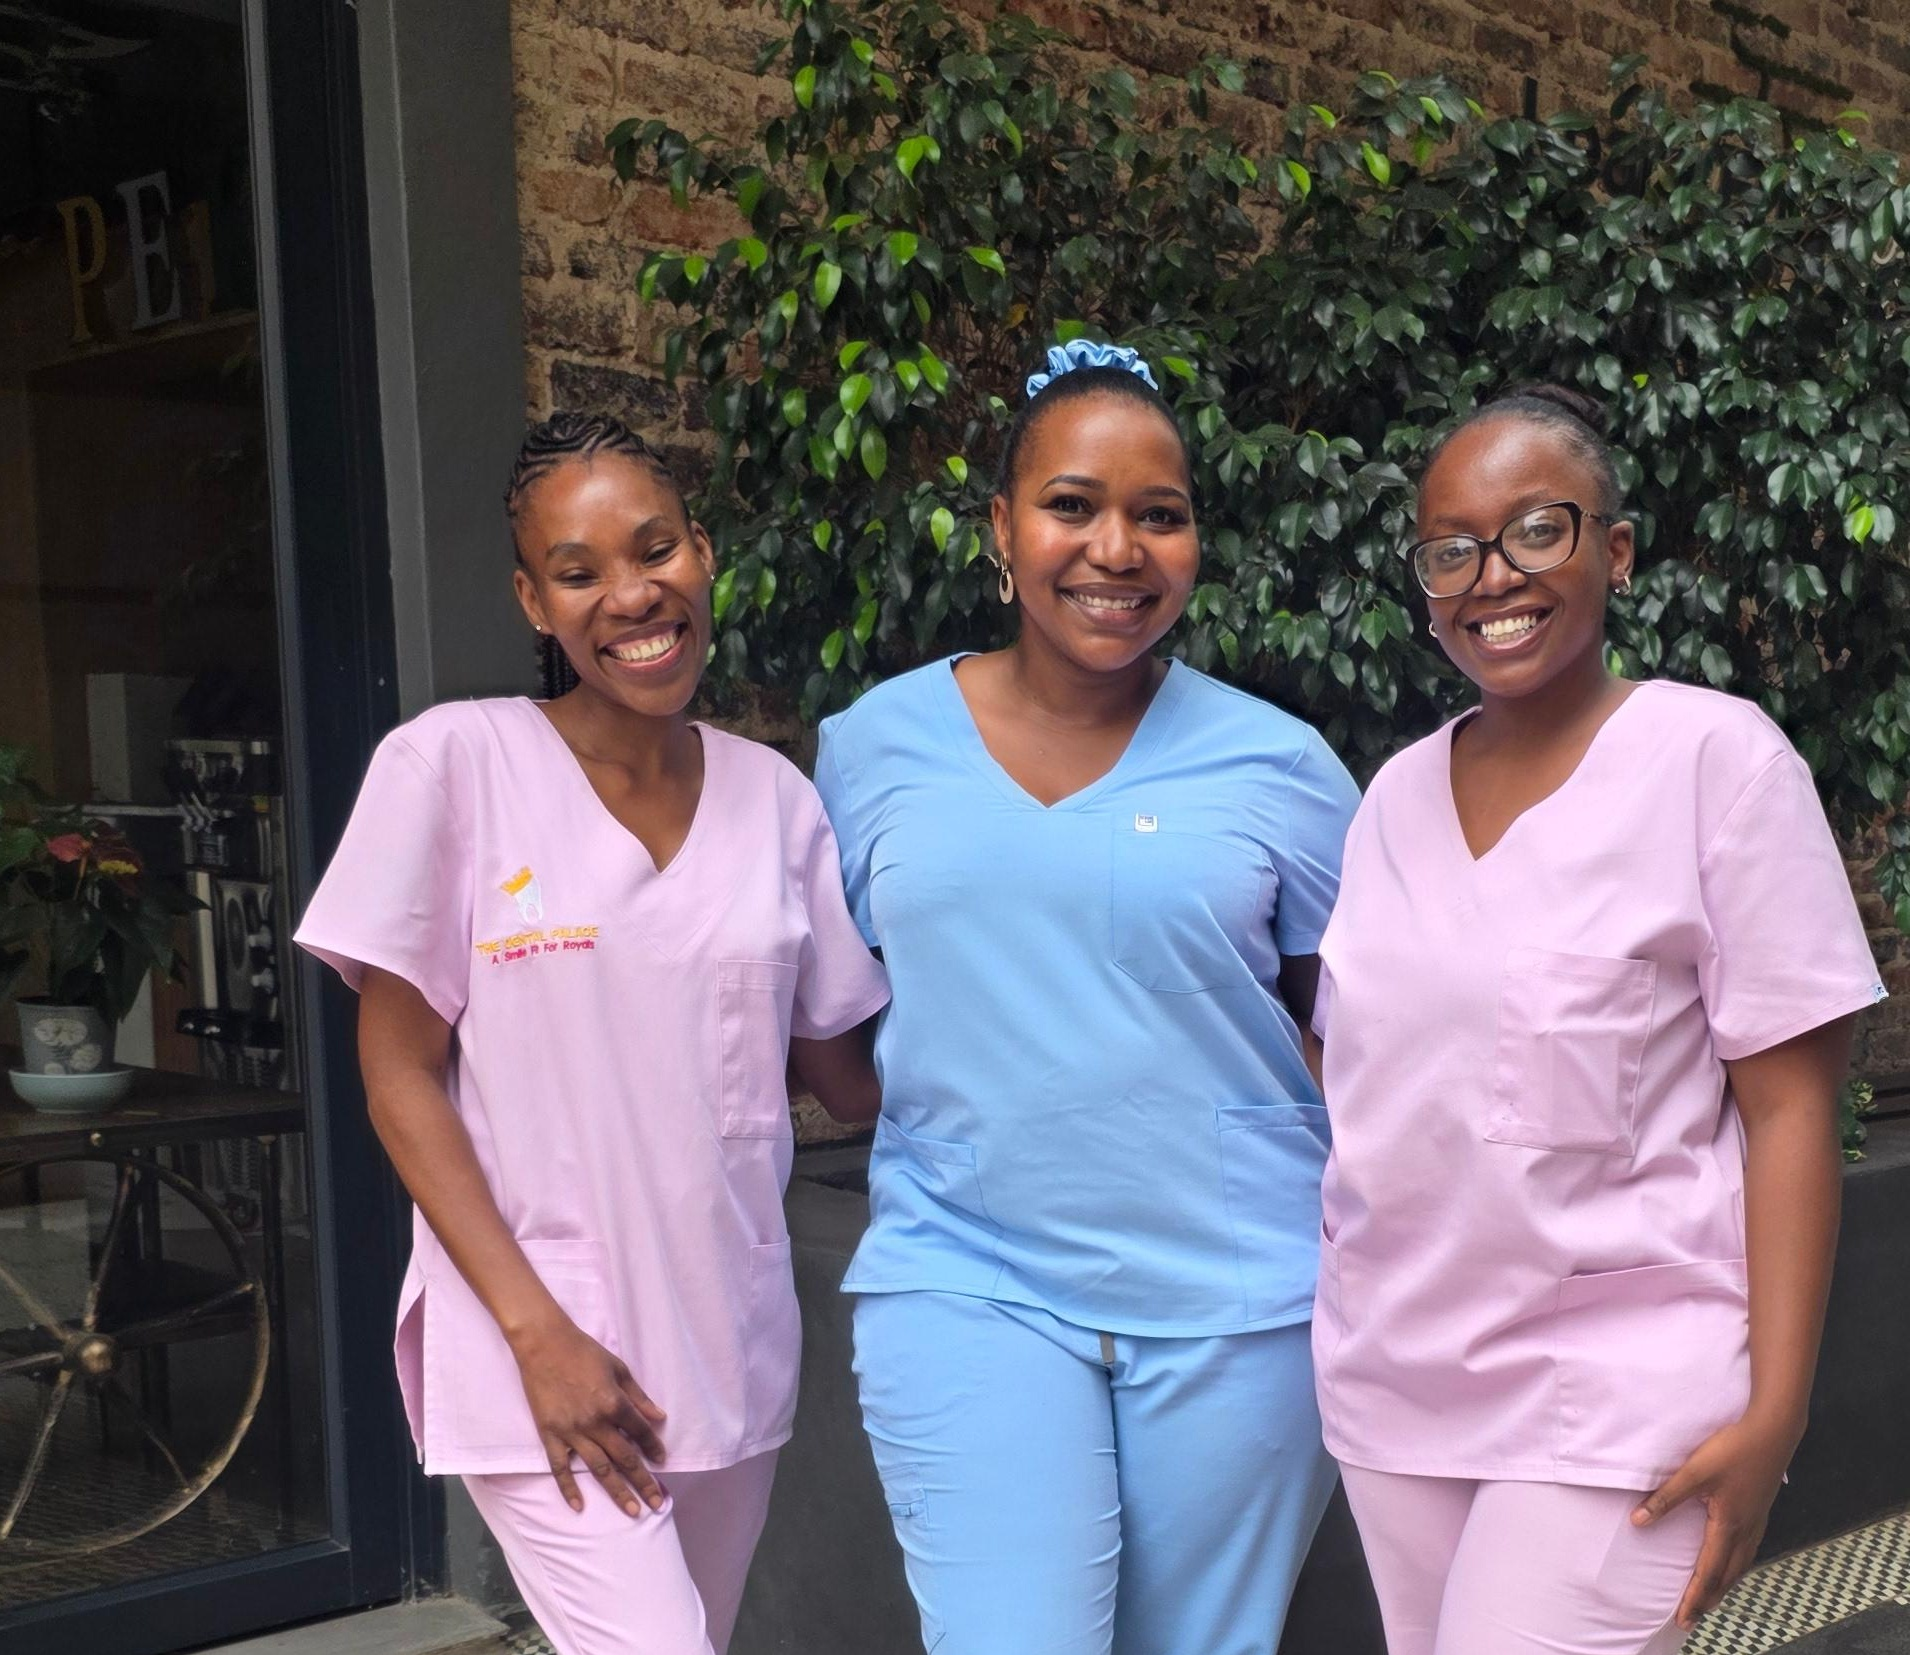
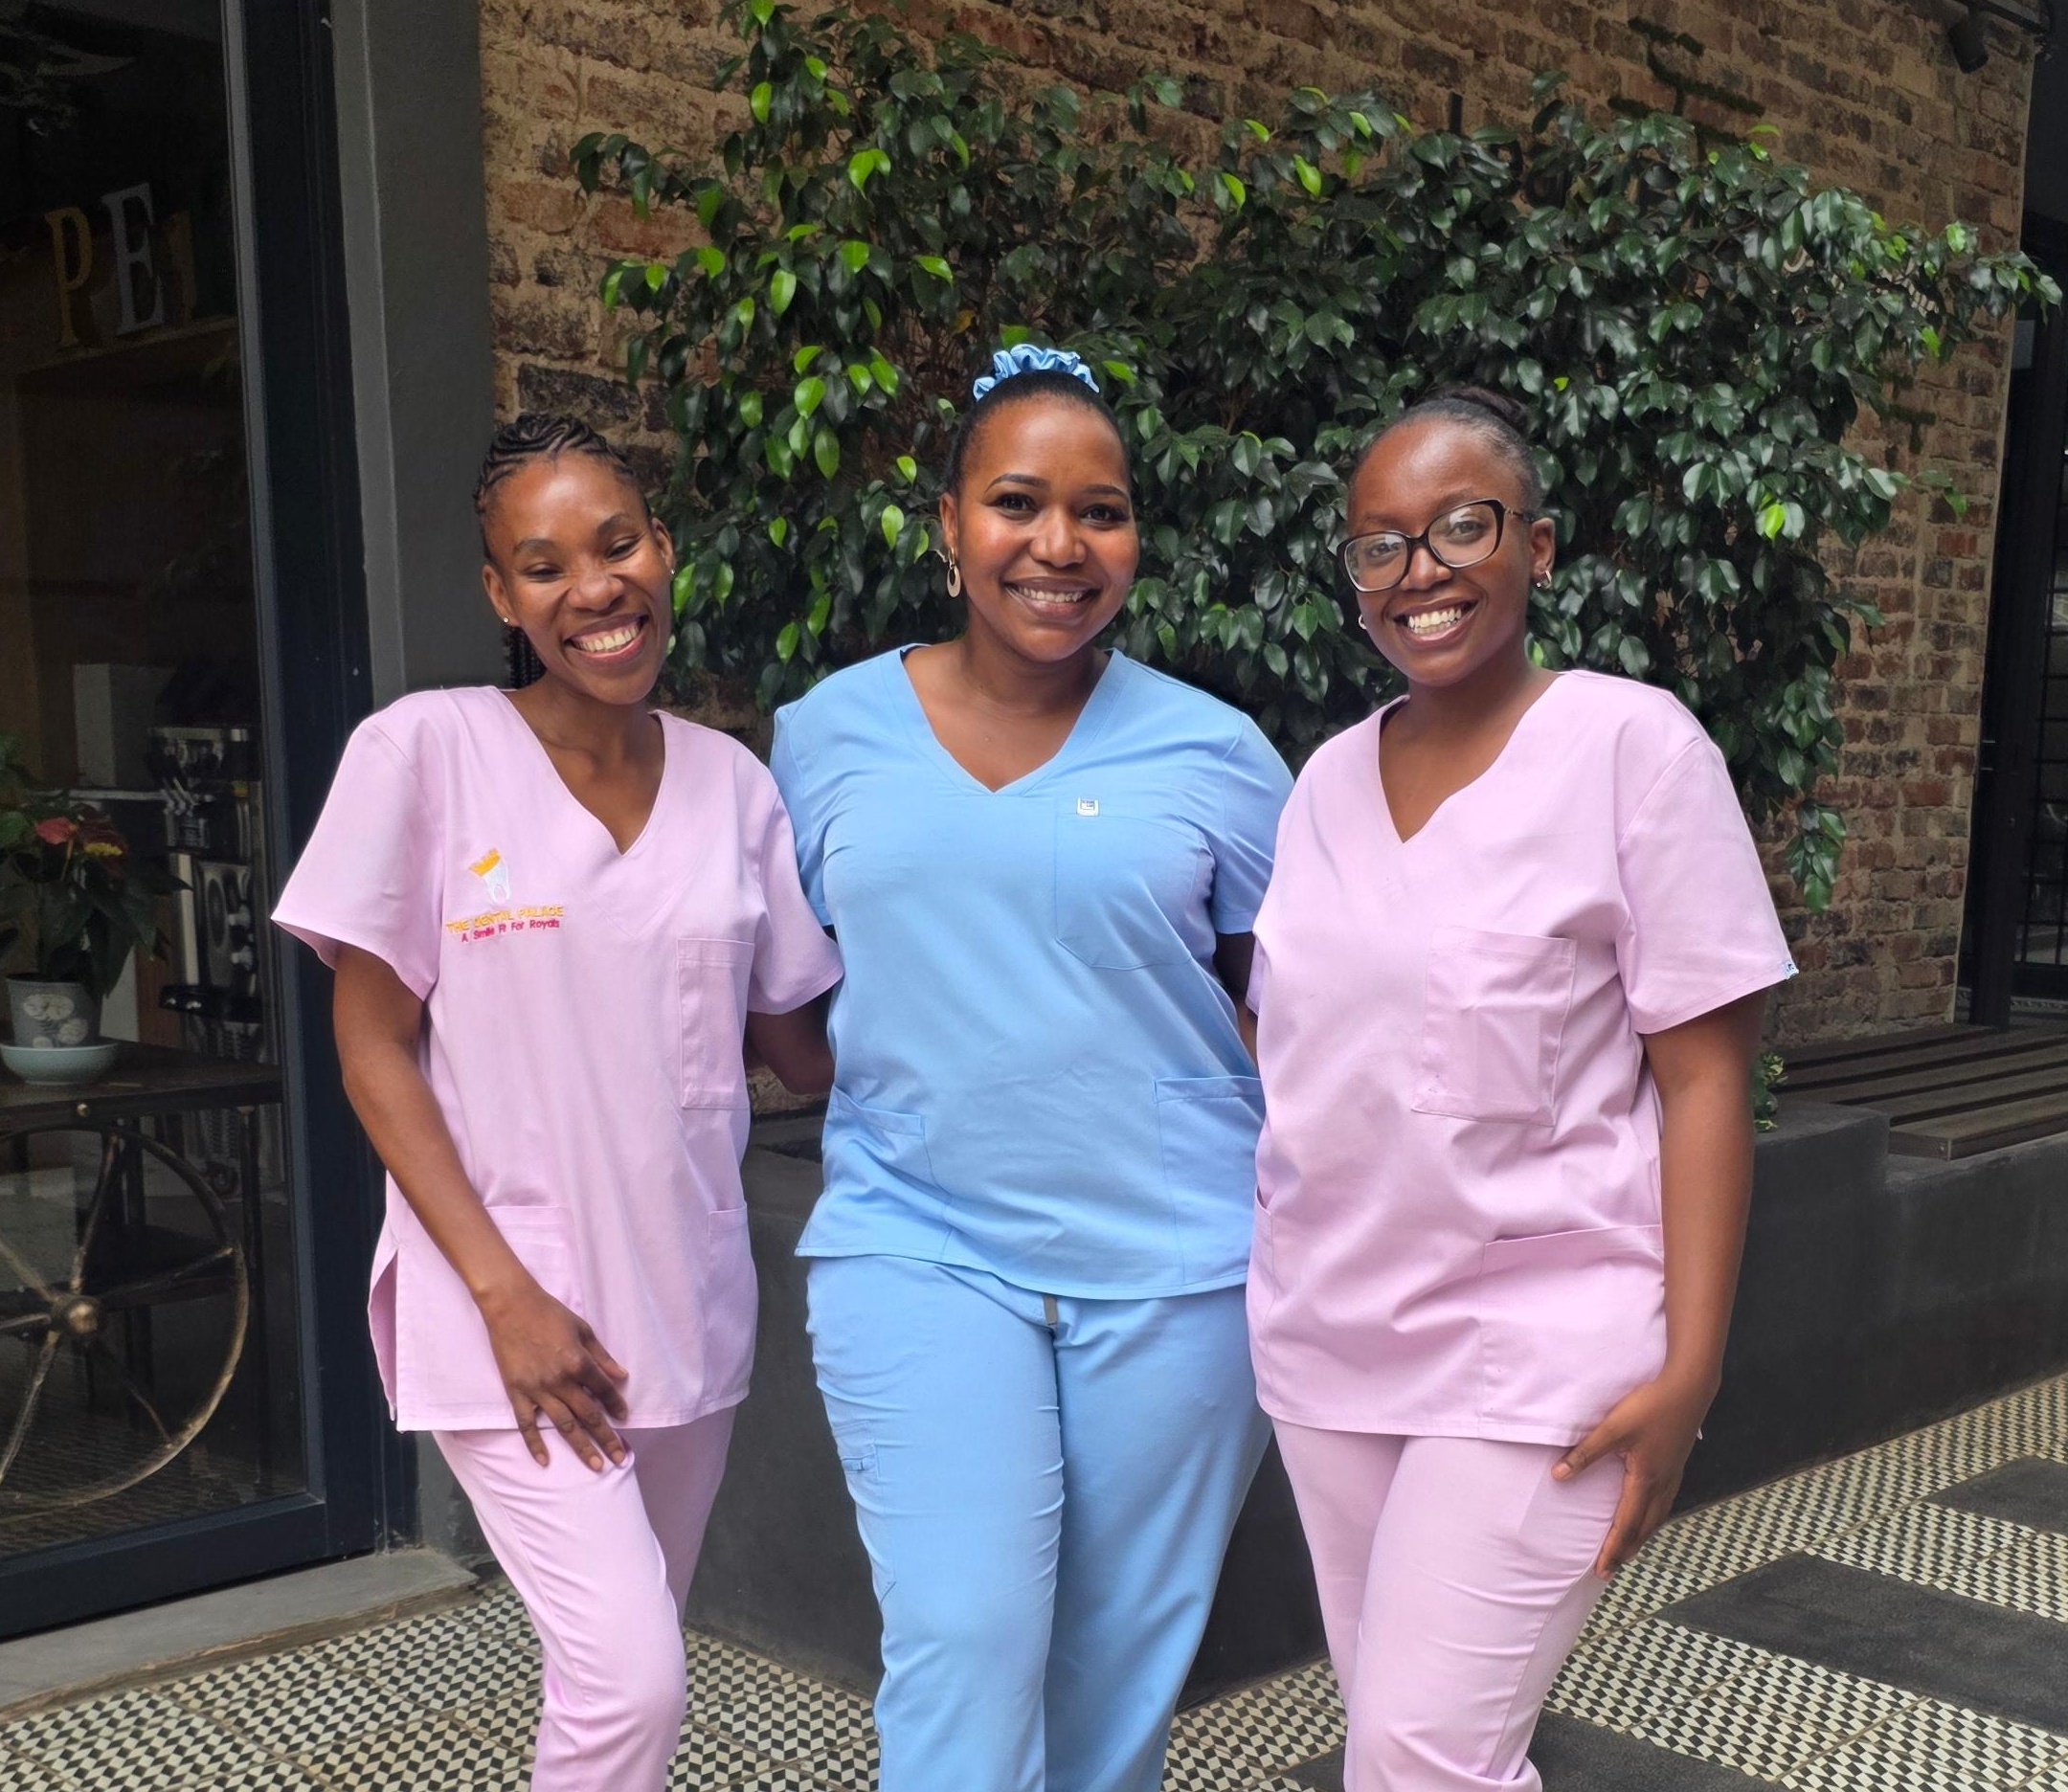
Refine dental photo crops

diff --git a/index.html b/index.html
@@ -1106,35 +1106,6 @@
         height: 20px;
       }
 
-      .profile-tile::after {
-        content: "";
-        position: absolute;
-        inset: 0;
-        background: linear-gradient(180deg, rgba(36, 32, 55, 0) 0%, rgba(36, 32, 55, 0.25) 45%, rgba(22, 10, 24, 0.88) 100%);
-        z-index: -1;
-        pointer-events: none;
-      }
-
-      .profile-tile strong {
-        display: block;
-        font-family: var(--serif);
-        font-size: 1.45rem;
-        font-weight: 500;
-        line-height: 1.15;
-        text-shadow: 0 2px 8px rgba(0,0,0,0.5);
-      }
-
-      .profile-tile span {
-        display: block;
-        margin-top: 6px;
-        color: var(--gold-soft);
-        font-size: 0.82rem;
-        letter-spacing: 0.05em;
-        text-transform: uppercase;
-        font-weight: 700;
-        text-shadow: 0 1px 4px rgba(0,0,0,0.5);
-      }
-
       .info-grid {
         display: grid;
         grid-template-columns: repeat(6, 1fr);
@@ -2544,10 +2515,6 @@
                     </svg>
                   </a>
                 </div>
-                <div>
-                  <strong>Dr Makoma Nandi Khumalo</strong>
-                  <span>Dentist &amp; Founder</span>
-                </div>
               </article>
 
               <article class="tile quote-card">
@@ -2558,7 +2525,7 @@
               </article>
 
               <article class="tile tile-photo staff-photo">
-                <img src="assets/images/WhatsApp%20Image%202026-06-20%20at%2013.38.21.jpeg" alt="The Dental Palace clinical team in Pretoria" width="1910" height="1655" loading="lazy" decoding="async" />
+                <img src="assets/images/WhatsApp%20Image%202026-06-20%20at%2013.38.21.jpeg" alt="The Dental Palace clinical team in Pretoria" width="2160" height="1872" loading="lazy" decoding="async" />
               </article>
             </div>
 